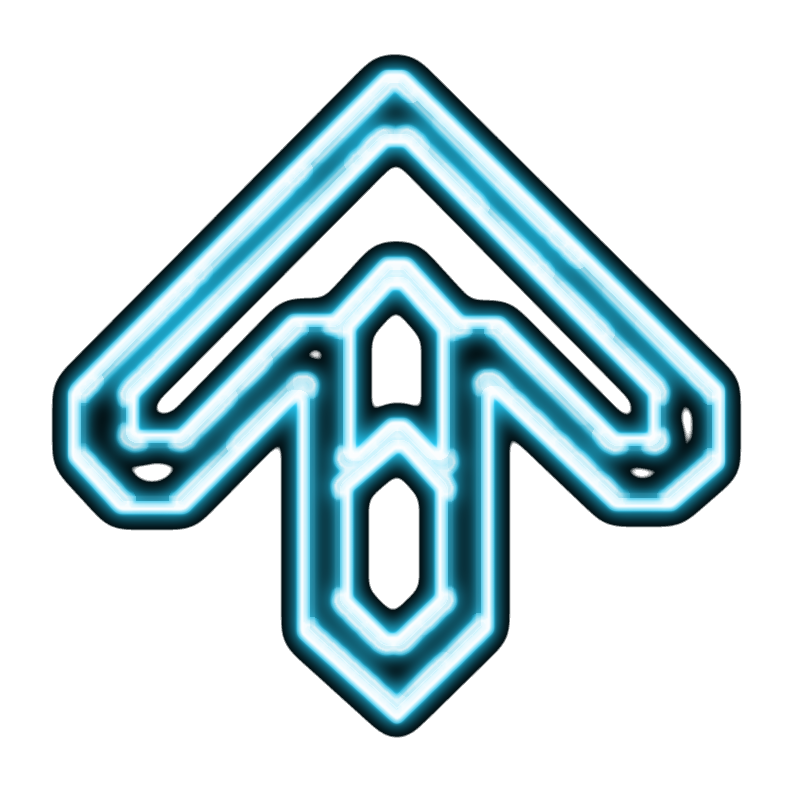
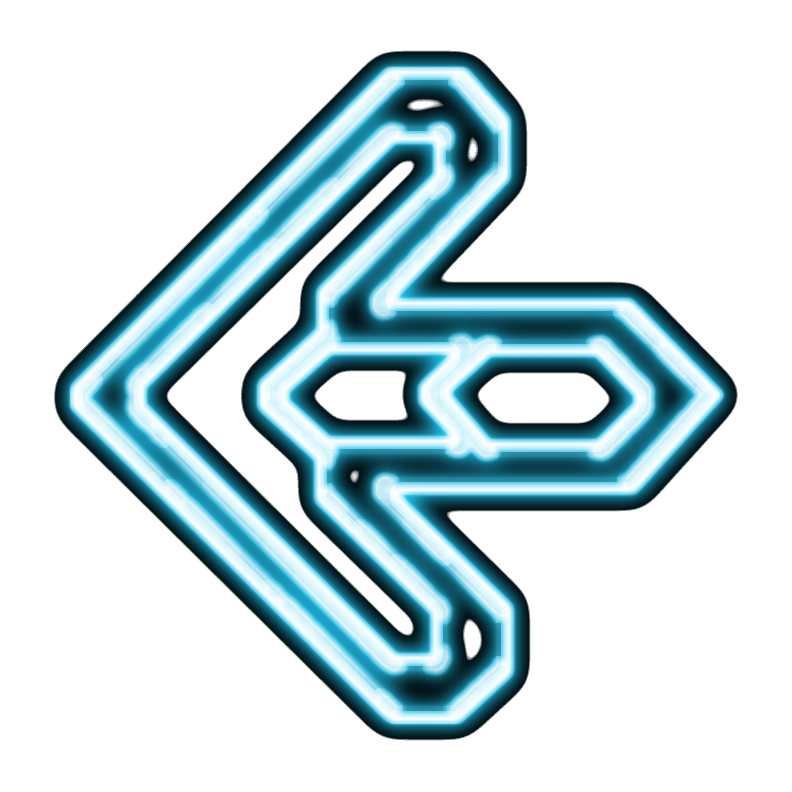
Arrows display right way around, GameCanvas no longer has errors with QPainter

diff --git a/Source/SADStepProgram/mainwindow.cc b/Source/SADStepProgram/mainwindow.cc
@@ -97,7 +97,7 @@ void MainWindow::runGame(int selection) {
     arrows = timeline->arrowGiantMeasure; //***** placehold (getNotes) for non existant function yet to be named
    // QBasicTimer* timer = new QBasicTimer;
     //qDebug() << "Cranes!";
-    canvas = new GameCanvas(4,this,20);
+    canvas = new GameCanvas(4,this);
     //qDebug() << "hel";
     setCentralWidget(canvas);
     //qDebug() << "hel";

diff --git a/Source/SADStepProgram/GameCanvas.cc b/Source/SADStepProgram/GameCanvas.cc
@@ -116,7 +116,9 @@ void GameCanvas::paintEvent(QPaintEvent* e){
         }
         ++laneNum;
     }
-    p->drawText(this->height()/2,this->width()/4,this->height()/8,this->width()/4,Qt::AlignCenter,txt);
+    p->end();
+    delete p;
+    //p->drawText(this->height()/2,this->width()/4,this->height()/8,this->width()/4,Qt::AlignCenter,txt);
 }
 
 void GameCanvas::updateArrows() {
